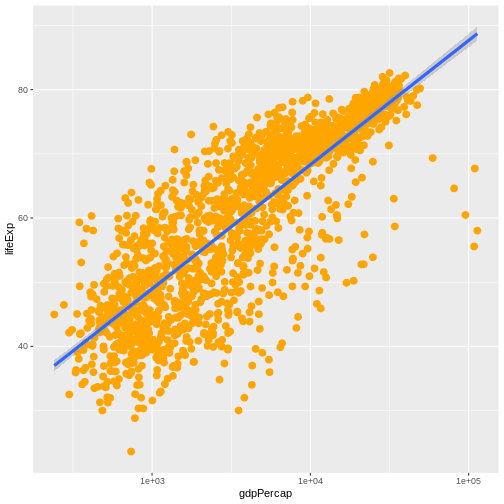
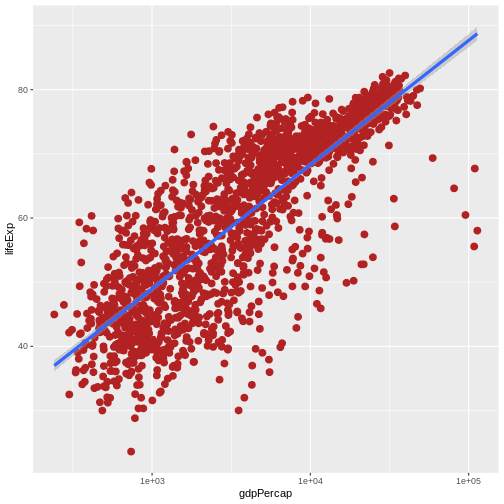
differences for PR #7

diff --git a/08-plot-ggplot2.md b/08-plot-ggplot2.md
@@ -349,7 +349,8 @@ a specific variable.
 
 ```r
 ggplot(data = gapminder, mapping = aes(x = gdpPercap, y = lifeExp)) +
- geom_point(size=3, color="orange") + scale_x_log10() +
+ geom_point(size=3, color="firebrick") + 
+ scale_x_log10() +
  geom_smooth(method="lm", size=1.5)
 ```
 
@@ -384,7 +385,8 @@ is placed inside the `aes()` call modifies a point's color based on its continen
 
 ```r
 ggplot(data = gapminder, mapping = aes(x = gdpPercap, y = lifeExp, color = continent)) +
- geom_point(size=3, shape=17) + scale_x_log10() +
+ geom_point(size=3, shape=17) + 
+ scale_x_log10() +
  geom_smooth(method="lm", size=1.5)
 ```
 
